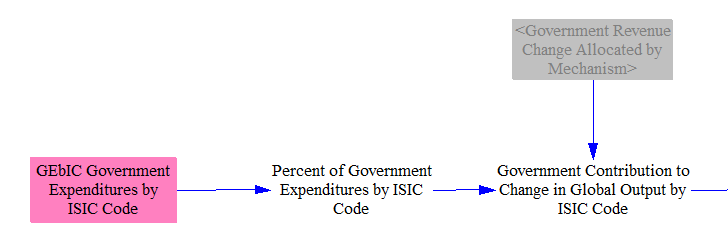
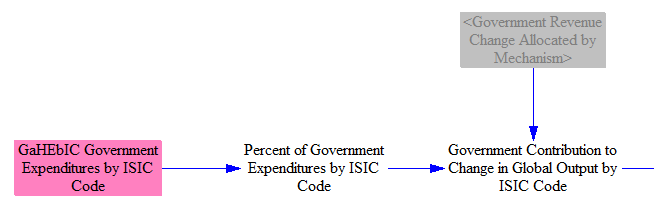
Minor update to IO Model doc page to reflect final version of 3.0.0

diff --git a/docs/io-model.md b/docs/io-model.md
@@ -149,7 +149,7 @@ As the next step, we calculate the policy-driven change in output for each cash 
 
 Note that government and household contribution to the change in industrial output is based on the change in money available for government and households to spend - i.e. change in cash flow, not change in revenue.  (Some of the change in revenue has already been spent on products and is already included in the change in industry revenue, so we need to use the change in cash flow for government and households to avoid double-counting.)  In contrast, industry contribution will be handled using change in revenue, not change in cash flow (discussed below).
 
-First, we calculate the impact of changes in regular government spending, which is used to account for the change in government cash flow that was assigned to regular spending via the GRA levers.  We assume these changes in cash flow increase or decrease spending on ISIC codes in proportion to how the existing government budget is spent, as defined in variable `GEbIC Government Expenditures by ISIC Code`.
+First, we calculate the impact of changes in regular government spending, which is used to account for the change in government cash flow that was assigned to regular spending via the GRA levers.  We assume these changes in cash flow increase or decrease spending on ISIC codes in proportion to how the existing government budget is spent, as defined in variable `GaHEbIC Government Expenditures by ISIC Code`.
 
 ![allocation of change in Government expenditures to ISIC codes](io-model-GovtOutputAllocated.png)
 
